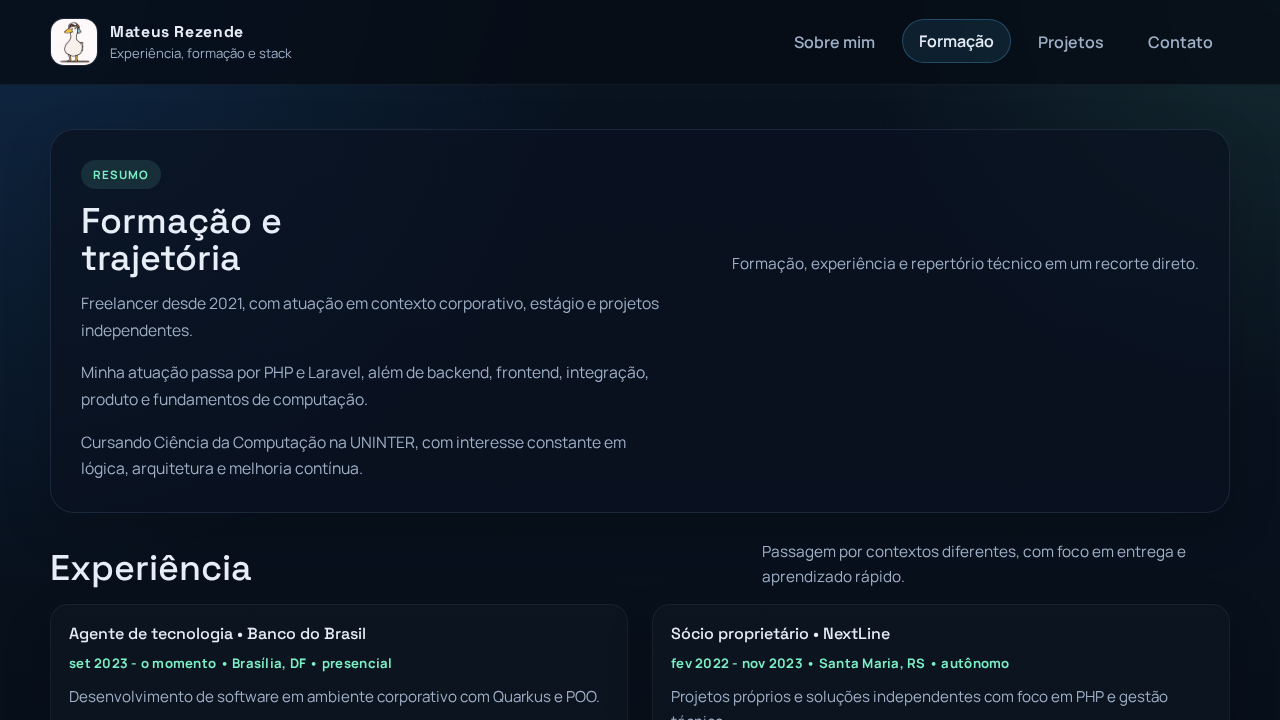
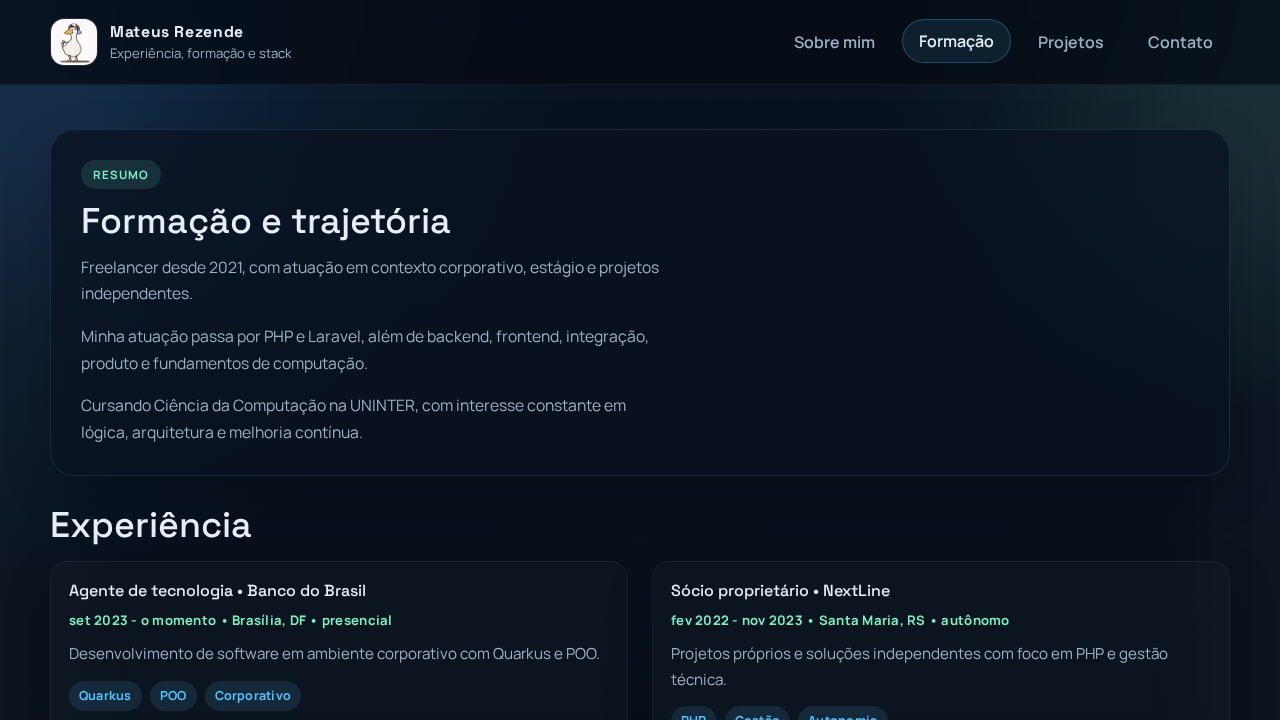
Polish portfolio layout and SEO

diff --git a/formacao/index.html b/formacao/index.html
@@ -5,6 +5,14 @@
     <meta name="viewport" content="width=device-width, initial-scale=1.0">
     <meta name="description" content="Formação, experiência e stack multidisciplinar de Mateus Rezende." />
     <title>Formação e Experiência | Mateus Rezende</title>
+    <link rel="canonical" href="https://mmrezende.github.io/formacao/" />
+    <meta property="og:site_name" content="Mateus Rezende" />
+    <meta property="og:type" content="website" />
+    <meta property="og:title" content="Formação e Experiência | Mateus Rezende" />
+    <meta property="og:description" content="Experiência, formação, stack e certificações de Mateus Rezende." />
+    <meta property="og:url" content="https://mmrezende.github.io/formacao/" />
+    <meta name="theme-color" content="#07111f" />
+    <link rel="icon" type="image/gif" href="/assets/pato-baile.gif" />
     <link rel="stylesheet" type="text/css" href="/index.css">
 </head>
 <body>
@@ -33,7 +41,6 @@
                         <span class="eyebrow">Resumo</span>
                         <h1>Formação e trajetória</h1>
                     </div>
-                    <p>Formação, experiência e repertório técnico em um recorte direto.</p>
                 </div>
                 <div class="lead-grid muted">
                     <p>Freelancer desde 2021, com atuação em contexto corporativo, estágio e projetos independentes.</p>
@@ -47,7 +54,6 @@
                     <div>
                         <h2>Experiência</h2>
                     </div>
-                    <p>Passagem por contextos diferentes, com foco em entrega e aprendizado rápido.</p>
                 </div>
                 <div class="timeline-grid">
                     <article class="timeline-item glass-card">
@@ -98,7 +104,6 @@
                     <div>
                         <h2>Formação</h2>
                     </div>
-                    <p>Base conceitual combinada com prática profissional.</p>
                 </div>
                 <div class="info-grid">
                     <article class="info-card glass-card">
@@ -117,7 +122,6 @@
                     <div>
                         <h2>Stack</h2>
                     </div>
-                    <p>Amplitude técnica sem ficar preso a uma única stack.</p>
                 </div>
                 <div class="mini-grid">
                     <article class="mini-card glass-card">
@@ -140,7 +144,6 @@
                     <div>
                         <h2>Certificações</h2>
                     </div>
-                    <p>Conhecimentos resumidos por certificação.</p>
                 </div>
                 <div class="compact-grid certifications-grid">
                     <article class="highlight-card">

diff --git a/index.css b/index.css
@@ -42,6 +42,20 @@ body::before {
     pointer-events: none;
 }
 
+body::after {
+    content: "";
+    position: fixed;
+    inset: 0;
+    background:
+        radial-gradient(circle at 8% 18%, rgba(86, 194, 255, 0.08), transparent 18%),
+        radial-gradient(circle at 92% 26%, rgba(123, 240, 198, 0.08), transparent 18%),
+        linear-gradient(90deg, rgba(255, 255, 255, 0.03) 0, transparent 12%),
+        linear-gradient(270deg, rgba(255, 255, 255, 0.03) 0, transparent 12%);
+    background-repeat: no-repeat;
+    pointer-events: none;
+    opacity: 0.8;
+}
+
 * {
     box-sizing: border-box;
 }
@@ -198,7 +212,7 @@ main {
     margin-top: 14px;
     font-size: clamp(2.2rem, 4.6vw, 4rem);
     line-height: 1.02;
-    max-width: 11ch;
+    max-width: 16ch;
 }
 
 .hero-copy p {
@@ -363,6 +377,7 @@ main {
 .section-heading h2,
 .section-heading h1 {
     font-size: clamp(1.6rem, 2.8vw, 2.5rem);
+    max-width: none;
 }
 
 .section-heading p {
@@ -510,6 +525,12 @@ ol.clean-list {
 
 .project-links {
     margin-top: 18px;
+}
+
+.project-card {
+    display: flex;
+    flex-direction: column;
+    justify-content: space-between;
 }
 
 .project-link.primary,
@@ -674,6 +695,25 @@ ol.clean-list {
     box-shadow: 0 26px 80px rgba(0, 0, 0, 0.45);
 }
 
+.projects-page .project-grid {
+    gap: 28px;
+}
+
+.projects-page .featured-copy,
+.projects-page .featured-visuals {
+    display: flex;
+    flex-direction: column;
+    justify-content: center;
+}
+
+.projects-page .featured-visuals {
+    align-items: stretch;
+}
+
+.home-summary {
+    display: none;
+}
+
 @media (min-width: 1025px) {
     .screenshot-card img {
         aspect-ratio: 16 / 8.5;
@@ -719,6 +759,10 @@ ol.clean-list {
     .projects-page .featured-copy .bullet-list {
         width: 100%;
         margin-inline: 0;
+    }
+
+    .hero-copy h1 {
+        max-width: none;
     }
 }
 

diff --git a/index.html b/index.html
@@ -5,6 +5,14 @@
     <meta name="viewport" content="width=device-width, initial-scale=1.0">
     <meta name="description" content="Portfólio de Mateus Rezende, desenvolvedor full stack com atuação multidisciplinar em backend, frontend, produto e arquitetura." />
     <title>Mateus Rezende | Desenvolvedor Full Stack</title>
+    <link rel="canonical" href="https://mmrezende.github.io/" />
+    <meta property="og:site_name" content="Mateus Rezende" />
+    <meta property="og:type" content="website" />
+    <meta property="og:title" content="Mateus Rezende | Desenvolvedor Full Stack" />
+    <meta property="og:description" content="Portfólio multidisciplinar com projetos, formação e contato." />
+    <meta property="og:url" content="https://mmrezende.github.io/" />
+    <meta name="theme-color" content="#07111f" />
+    <link rel="icon" type="image/gif" href="/assets/pato-baile.gif" />
     <link rel="stylesheet" type="text/css" href="/index.css">
 </head>
 <body>
@@ -82,14 +90,11 @@
                     <div>
                         <h2>Em poucas linhas</h2>
                     </div>
-                    <p>
-                        Perfil generalista com profundidade em web, boa adaptação de stack e interesse real por produto e fundamentos de computação.
-                    </p>
                 </div>
                 <div class="compact-grid">
                     <article class="highlight-card">
                         <strong class="card-title">Backend</strong>
-                        <p>PHP/Laravel, Java/Quarkus e Node.js</p>
+                        <p>PHP/Laravel, Java/Quarkus e Node.js.</p>
                     </article>
                     <article class="highlight-card">
                         <strong class="card-title">Frontend</strong>

diff --git a/projetos/index.html b/projetos/index.html
@@ -6,6 +6,14 @@
     <meta name="viewport" content="width=device-width, initial-scale=1.0">
     <meta name="description" content="Projetos selecionados de Mateus Rezende, com destaque para produtos web, bibliotecas e fundamentos de computação." />
     <title>Projetos | Mateus Rezende</title>
+    <link rel="canonical" href="https://mmrezende.github.io/projetos/" />
+    <meta property="og:site_name" content="Mateus Rezende" />
+    <meta property="og:type" content="website" />
+    <meta property="og:title" content="Projetos | Mateus Rezende" />
+    <meta property="og:description" content="Seleção de projetos com destaque para o Max Late Game e outros trabalhos técnicos." />
+    <meta property="og:url" content="https://mmrezende.github.io/projetos/" />
+    <meta name="theme-color" content="#07111f" />
+    <link rel="icon" type="image/gif" href="/assets/pato-baile.gif" />
     <link rel="stylesheet" type="text/css" href="/index.css">
 </head>
 

diff --git a/contato/index.html b/contato/index.html
@@ -6,6 +6,14 @@
     <meta name="viewport" content="width=device-width, initial-scale=1.0">
     <meta name="description" content="Canais de contato de Mateus Rezende, incluindo LinkedIn, GitHub, e-mail e perfil profissional no 99Freelas." />
     <title>Contato | Mateus Rezende</title>
+    <link rel="canonical" href="https://mmrezende.github.io/contato/" />
+    <meta property="og:site_name" content="Mateus Rezende" />
+    <meta property="og:type" content="website" />
+    <meta property="og:title" content="Contato | Mateus Rezende" />
+    <meta property="og:description" content="Canais de contato e presença profissional de Mateus Rezende." />
+    <meta property="og:url" content="https://mmrezende.github.io/contato/" />
+    <meta name="theme-color" content="#07111f" />
+    <link rel="icon" type="image/gif" href="/assets/pato-baile.gif" />
     <link rel="stylesheet" type="text/css" href="/index.css">
 </head>
 
